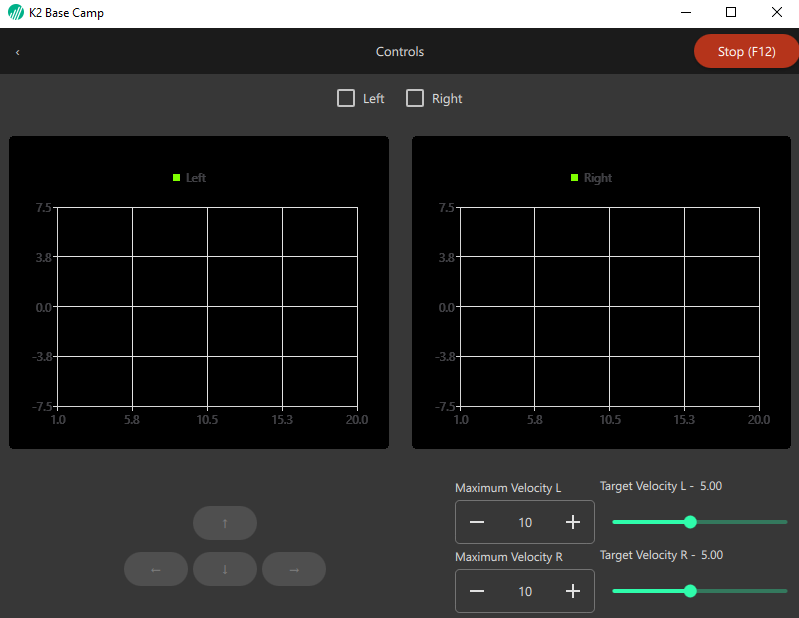
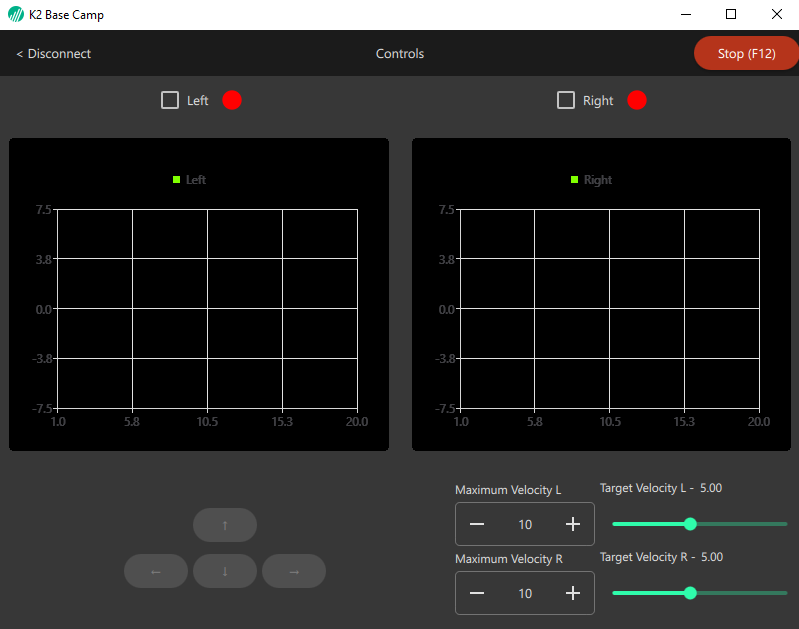
DR0053A-571 Update docs

diff --git a/docs/source/pages/code_overview.rst b/docs/source/pages/code_overview.rst
@@ -29,7 +29,8 @@ Project folder structure
 | root
 | ├── assets *(static files such as images)*
 | ├── docs *(this documentation)*
-| ├── src
+| ├── k2basecamp
+| │   ├── assets
 | │   ├── controllers
 | │   ├── models
 | │   ├── services
@@ -43,7 +44,7 @@ Project folder structure
 Architecture
 ============
 
-The ``src`` directory contains the application code and is composed of several important parts.
+The ``k2basecamp`` directory contains the application code and is composed of several important parts.
 
 Everything that is visible to the user is contained in the ``views`` folder and written in QML (all QML and javascript code is contained in the ``views`` folder). 
 The user interface and all it's components are defined here. 
@@ -120,6 +121,28 @@ To illustrate the flow of the application while it is running, consider the foll
         .. image:: ../_static/graph.png
             :width: 400
             :alt: The control interface with a velocity graph
+
+* The library that we use to communicate with the drive (ingeniamotion) also allows us to get periodic updates about certain states. For example, we can display LEDs that inform the user about the state of the motor.
+    
+    #. The subscription to the motor state is done in the ``service`` when we connect to the drives.
+    #. When making the subscription, we also define a callback function in the ``service`` that handles the information we will now periodically receive from the drives.
+    #. In the callback, a signal is sent to the ``controller``, containing the current motor state.
+    #. In this case, the ``controller`` simply emits a ``signal`` to the GUI where the corresponding LED is updated.
+
+        .. image:: ../_static/leds.png
+            :width: 400
+            :alt: 
+            
+* Another subscription that we make is to the network state. This allows us to update the interface when the drives are suddenly disconnected (e.g. when the cable gets pulled) or when the connection becomes available again.
+
+    #. Just as in the previous example, the subscription is made in the ``service`` when connecting to the drives.
+    #. The callback in the ``service`` passes the information to the ``controller``.
+    #. Here we might run additional code depending on the state (e.g. stopping running poller threads when the connection was lost).
+    #. Lastly, we inform the GUI about the occurence via ``signals``. This could mean displaying an error message or changing button states (disabled / re-enabled).
+
+        .. image:: ../_static/connection_lost.png
+            :width: 400
+            :alt: 
 
 .. NOTE::
 

diff --git a/docs/source/pages/development.rst b/docs/source/pages/development.rst
@@ -9,7 +9,7 @@ Installing for the development environment is much like outlined in :ref:`quicks
 
 The only difference is that we need to include the ``-d`` flag when installing the dependencies::
 
-    pipenv install -d --ignore-pipfile
+    pipenv sync -d
 
 .. WARNING::
     Unless otherwise specified, all commands should be run inside the virtual environment. If you get errors about missing packages, it's likely you forgot to do so or are using the wrong environment.
@@ -19,7 +19,7 @@ The only difference is that we need to include the ``-d`` flag when installing t
     
 Running the program::
 
-    python src/__main__.py
+    python -m k2basecamp
 
 .. NOTE::
     When debuggin or running the program in an IDE such as `VS-Code <https://code.visualstudio.com/>`_, the IDE might have to be configured to use the virtual environment.
@@ -33,7 +33,7 @@ Style
 We defined a custom style in **qtquickcontrols2.conf** for this application. 
 However, it is not automatically included in the application, instead it has to be compiled with the help of **resources.qrc** (do this after making changes to the style)::
 
-    pyside6-rcc resources.qrc -o src/resources.py
+    pyside6-rcc resources.qrc -o k2basecamp/resources.py
 
 Pre-commit
 ==========
@@ -74,7 +74,7 @@ We use the `google style <https://google.github.io/styleguide/pyguide.html#38-co
 
 When creating new files that contain docstrings, their documentation files can be generated using::
 
-    sphinx-apidoc -o ./source ../src
+    sphinx-apidoc -o ./source ../k2basecamp
 
 Either way, after making changes to the files in ``docs/source``, the documentation has to be recompiled::
 

diff --git a/README.md b/README.md
@@ -1,8 +1,8 @@
 # K2 Base Camp
+
 Simple open source app to plug &amp; play with your servo drive.
 
-Getting started
----------------
+## Getting started
 
 ### Prerequisites
 
@@ -12,23 +12,21 @@ The project requires [python 3.9](https://www.python.org/downloads/release/pytho
 
 1. Clone the repository
 
-    `git clone https://github.com/ingeniamc/k2-base-camp.git`
+   `git clone https://github.com/ingeniamc/k2-base-camp.git`
 
 2. Install dependencies
 
-    `pipenv install --ignore-pipfile`
+   `pipenv sync`
 
 3. Run the project
 
-    `pipenv run python src/main.py`
+   `pipenv run python -m k2basecamp`
 
-Development
------------
+## Development
 
 ### Install development dependencies
 
-`pipenv install -d --ignore-pipfile`
-
+`pipenv sync -d`
 
 ### Pre-commit hooks (optional)
 
@@ -50,11 +48,11 @@ For this to work properly, we need to create some qml types from our python file
 
 Documentation added to the source code can be compiled into several output formats using [sphinx](https://www.sphinx-doc.org/en/master/)
 
-~~~~
+```
 cd docs
 pipenv run make clean
 pipenv run make html
-~~~~
+```
 
 ### Running tests
 
@@ -62,7 +60,6 @@ Run tests using pytest
 
 `pipenv run pytest src/tests`
 
-License
--------
+## License
 
 The project is licensed under the Creative Commons Public Licenses.

diff --git a/docs/source/pages/quickstart.rst b/docs/source/pages/quickstart.rst
@@ -18,11 +18,11 @@ If you have python 3.9 and pipenv installed on your system, running K2 Base Camp
 #. Cloning the repository from `github <https://github.com/ingeniamc/k2-base-camp.git>`_
 #. Installing the dependencies::
 
-    pipenv install --ignore-pipfile
+    pipenv sync
 
 #. Running the program::
 
-    pipenv run python src/__main__.py
+    pipenv run python -m k2basecamp
 
 Installing python
 =================
@@ -40,5 +40,5 @@ You might have to explicitly specify the python location when creating the virtu
 
 Subsequently, the quickstart commands would be adapted to::
 
-    py -3.9 -m pipenv install --ignore-pipfile
-    py -3.9 -m pipenv run python src/__main__.py
+    py -3.9 -m pipenv sync
+    py -3.9 -m pipenv run python -m k2basecamp

diff --git a/docs/source/pages/what_is_k2_base_camp.rst b/docs/source/pages/what_is_k2_base_camp.rst
@@ -16,4 +16,6 @@ At its core, it is a minimal interface that lets you connect to both drives of t
 
 You can then enable / disable the servo motors and get them moving using the arrow keys (or pressing the corresponding buttons).
 
+The interface includes a LED for each motor that displays its current status.
+
 The graphs will display the velocity of the motors over time, and the input box and sliders can be used to set additional parameters related to the velocity of the motors.

diff --git a/docs/source/index.rst b/docs/source/index.rst
@@ -1,7 +1,5 @@
 .. K2 Base Camp documentation master file, created by
    sphinx-quickstart on Mon Dec 11 10:47:58 2023.
-   You can adapt this file completely to your liking, but it should at least
-   contain the root `toctree` directive.
 
 Welcome to K2 Base Camp's documentation!
 ========================================

diff --git a/docs/source/api/utils.rst b/docs/source/api/utils.rst
@@ -14,10 +14,3 @@ Utils
 .. automodule:: k2basecamp.utils.types
    :members:
    :show-inheritance:
-
-Functions
----------
-
-.. automodule:: k2basecamp.utils.functions
-   :members:
-   :show-inheritance:
